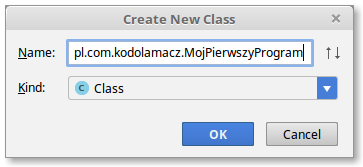
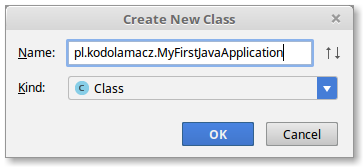
Java wyzwania

Changed region(s): [[0.2424, 0.2695, 0.8485, 0.3593]]

diff --git a/content/blog/java/challenges/java-challenges-lets-start-coding.md b/content/blog/java/challenges/java-challenges-lets-start-coding.md
@@ -89,7 +89,7 @@ Pojawia nam się okno startowe:
 
 Wybieramy opcję "Create New Project".
 
-W nowo otwartym oknie musimy wskazać IDEI lokalizację naszego SDK, klikamy "New" i wybieramy miejsce instalacji SDK w naszym systemie (w przypadku systemu Windows będzie to ... TODO). Następnie klikamy dwukrotnie "Next".
+W nowo otwartym oknie musimy wskazać IDEI lokalizację naszego SDK, klikamy "New" i wybieramy miejsce instalacji SDK w naszym systemie (w przypadku systemu Windows będzie to C:\Program Files\Java\jdk-10). Następnie klikamy dwukrotnie "Next".
 
 ![](/img/java/idea-new-project.png)
 ![](/img/java/idea-sdk.png)
@@ -102,18 +102,53 @@ Otworzyło nam się główne okno IDEI z naszym projektem.
 
 ![](/img/java/idea-new-project-created.png)
 
-To jednak tylko pusty projekt. Teraz musimy napisać swój pierwszy kawałek kodu. W tym celu rozwijamy drzewo z lewej strony z nazwą naszego projektu i na katalogu "src" klikamy lewym przyciskiem myszy i wybieramy opcję "New" a następnie "Java Class". W nowo otwartym oknie jako nazwę wpisujemy "pl.com.kodolamacz.MojPierwszyProgram" i klikamy "Ok"
+To jednak tylko pusty projekt. Teraz musimy napisać swój pierwszy kawałek kodu. W tym celu rozwijamy drzewo z lewej strony z nazwą naszego projektu i na katalogu "src" klikamy lewym przyciskiem myszy i wybieramy opcję "New" a następnie "Java Class". W nowo otwartym oknie jako nazwę wpisujemy "pl.kodolamacz.MyFirstJavaApplication" i klikamy "Ok"
 
 ![](/img/java/idea-new-class.png)
 
 W rezultacie dostajemy poniższy kod:
 
 ~~~java
-package pl.com.kodolamacz;
+package pl.kodolamacz;
 
-public class MojPierwszyProgram {
+public class MyFirstJavaApplication {
 }
 ~~~
 
-TODO trochę więcej kodu dodać
-TODO uruchomienie
+Czym są klasy Java dowiemy się później, na razie potraktujmy je jako sposób organizacji kodu, czyli naszych poleceń, w świecie Java. Klasy będą się znajdować w plikach z rozszerzeniem *.java*.
+
+W aktualnej wersji nasz kod jeszcze nic nie robi, to tylko szablon. Najprostrszą operacją jaką możemy kazać wykonać komputerowi jest wyświetlenie napisu. By tego dokonać należy najpierw dodać tak zwaną metodę **main** którą można uruchomić, czyli coś w rodzaju punktu startowego naszego programu. Nasz kod powinien wyglądać tak:
+
+~~~java
+package pl.kodolamacz;
+
+public class MyFirstJavaApplication {
+
+    public static void main(String[] args) {
+        
+    }
+    
+}
+~~~
+
+Teraz możemy skorzystać z funkcji **println** która wyświetla dowolny ciąg znaków, czyli nasz napis:
+~~~java
+package pl.kodolamacz;
+
+public class MyFirstJavaApplication {
+
+    public static void main(String[] args) {
+        System.out.println("Witaj świecie!");
+    }
+
+}
+~~~
+
+Teraz czas najwyższy by uruchomić nasz program! Klikamy w dowolnym miejscu naszego kodu prawym przyciskiem myszki i wybieramy opcję "Run 'MyFirstJavaApplication....main()'" lub naciskamy kombinację klawiszy Ctrl+Shift+F10. Na dole ekranu powinniśmy zobaczyć wynik wykonania naszego programu, czyli oczekiwany napis:
+~~~shell
+Witaj świecie!
+
+Process finished with exit code 0
+~~~
+
+Gratulacje! Udało Ci się napisać i uruchomić swój pierwszy
